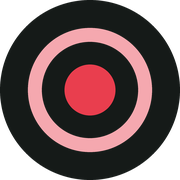
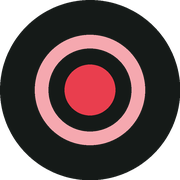
Знак сайта: вектор для выдачи и скрипт, которым он рисуется
Яндекс предпочитает SVG и рисует его чётко в любом размере, Google
принимает как любой валидный формат — а у нас был только .ico с
максимумом 64×64. Теперь вектор идёт первым, .ico остаётся запасным
для старых браузеров.

Сами иконки были нарисованы разово и руками: перерисовать их значило
подбирать радиусы заново. Геометрия переехала в scripts/make_icons.py,
и все размеры получаются с одного знака. Тест сторожит, что ссылки в
<head> ведут на существующие файлы, в .ico лежат размеры, которые
спрашивают поисковики, а вектор масштабируется и не тянет ничего извне.

diff --git a/index.html b/index.html
@@ -33,8 +33,14 @@
     <meta name="theme-color" content="#0e1211" />
     <!-- Иконки файлами, а не data:URI. Яндекс — и Вебмастер, и выдача —
          забирает именно /favicon.ico: пока его не было, сайт в поиске
-         оставался без значка. Тем же путём иконку берут закладки iOS. -->
-    <link rel="icon" href="/favicon.ico" sizes="any" />
+         оставался без значка. Тем же путём иконку берут закладки iOS.
+         Вектор идёт первым: Яндекс предпочитает SVG и рисует его чётко
+         в любом размере, Google принимает как любой валидный формат.
+         Ссылки не переставлять и адреса не менять — оба поисковика
+         обходят фавиконку неделями и ждут её по постоянному адресу.
+         Перерисовать всё разом: scripts/make_icons.py -->
+    <link rel="icon" href="/favicon.ico" sizes="32x32" />
+    <link rel="icon" href="/favicon.svg" type="image/svg+xml" />
     <link rel="apple-touch-icon" href="/apple-touch-icon.png" />
 
     <!-- Разметка для поисковиков: без неё карта для робота — пустой div. -->

diff --git a/scripts/make_icons.py b/scripts/make_icons.py
@@ -1,0 +1,83 @@
+"""Знак карты — отметка на радаре — во всех размерах, какие спрашивают.
+
+    ingest/.venv/bin/python scripts/make_icons.py
+
+Раньше иконки были нарисованы разово и руками: перерисовать их значило
+подбирать радиусы заново. Здесь одна геометрия на всех — векторная
+favicon.svg и растровые копии с неё же.
+
+Что кому нужно:
+  · Яндекс берёт SVG в первую очередь, а из растровых предпочитает 32×32;
+  · Google просит квадрат больше 48×48 и умеет тот же SVG;
+  · iOS кладёт на домашний экран apple-touch-icon 180×180;
+  · старые браузеры знают только favicon.ico — оставляем четыре размера.
+"""
+
+from __future__ import annotations
+
+from pathlib import Path
+
+from PIL import Image, ImageDraw
+
+ROOT = Path(__file__).resolve().parent.parent
+PUBLIC = ROOT / "public"
+
+# Геометрия в долях от стороны. Тёмный круг во весь квадрат, бледное
+# кольцо развёртки, красная отметка в центре — тот же знак, что в шапке.
+SHELL = (21, 26, 24, 255)
+MARK = (233, 62, 78, 255)
+RING = (232, 62, 77, 115)      # тот же красный сквозь тёмный фон
+MARK_RADIUS = 0.1406           # 72/512
+RING_INNER = 0.2676            # 137/512
+RING_OUTER = 0.3438            # 176/512
+
+SVG = """<svg xmlns="http://www.w3.org/2000/svg" viewBox="0 0 512 512">
+  <title>Тихое небо</title>
+  <circle cx="256" cy="256" r="256" fill="#151a18"/>
+  <circle cx="256" cy="256" r="156" fill="none" stroke="#e83e4d"
+          stroke-opacity="0.45" stroke-width="39"/>
+  <circle cx="256" cy="256" r="72" fill="#e93e4e"/>
+</svg>
+"""
+
+
+def render(size: int) -> Image.Image:
+    """Рисуем вчетверо крупнее и уменьшаем: у кругов иначе рваный край."""
+    scale = 4
+    canvas = Image.new("RGBA", (size * scale, size * scale), (0, 0, 0, 0))
+    draw = ImageDraw.Draw(canvas)
+    side = size * scale
+    center = side / 2
+
+    def circle(radius: float, **kwargs) -> None:
+        draw.ellipse([center - radius, center - radius,
+                      center + radius, center + radius], **kwargs)
+
+    circle(center, fill=SHELL)
+    ring_width = (RING_OUTER - RING_INNER) * side
+    circle((RING_INNER + RING_OUTER) / 2 * side, outline=RING,
+           width=max(1, round(ring_width)))
+    circle(MARK_RADIUS * side, fill=MARK)
+    return canvas.resize((size, size), Image.LANCZOS)
+
+
+def main() -> int:
+    (PUBLIC / "favicon.svg").write_text(SVG, encoding="utf-8")
+    print("favicon.svg")
+
+    # Внутри .ico те размеры, что спрашивают браузеры и поисковики.
+    icon_sizes = [16, 32, 48, 64]
+    render(64).save(PUBLIC / "favicon.ico", format="ICO",
+                    sizes=[(size, size) for size in icon_sizes])
+    print(f"favicon.ico — {', '.join(f'{s}×{s}' for s in icon_sizes)}")
+
+    for name, size in (("apple-touch-icon.png", 180),
+                       ("icon-192.png", 192),
+                       ("icon-512.png", 512)):
+        render(size).save(PUBLIC / name)
+        print(f"{name} — {size}×{size}")
+    return 0
+
+
+if __name__ == "__main__":
+    raise SystemExit(main())

diff --git a/tests/test_site_icons.py b/tests/test_site_icons.py
@@ -1,0 +1,59 @@
+"""Иконки сайта: то, по чему сайт узнают в выдаче и в закладках.
+
+Значок в поиске стоит дёшево и ломается тихо: битая ссылка в <head> или
+пропавший файл никак не видны на самой карте, а Яндекс с Google обходят
+фавиконку неделями — ошибку замечаешь через месяц по пустому квадрату
+в выдаче.
+"""
+
+from __future__ import annotations
+
+import re
+import struct
+
+import pytest
+from PIL import Image
+
+from pipeline.db import ROOT
+
+HEAD = (ROOT / "index.html").read_text(encoding="utf-8")
+ICON_LINKS = re.findall(r'<link rel="(icon|apple-touch-icon)"[^>]*href="([^"]+)"[^>]*>', HEAD)
+
+
+def public(href: str):
+    return ROOT / "public" / href.lstrip("/")
+
+
+def test_head_lists_icons():
+    """Ссылки на месте — вектор, .ico и иконка для домашнего экрана."""
+    hrefs = {href for _, href in ICON_LINKS}
+    assert {"/favicon.ico", "/favicon.svg", "/apple-touch-icon.png"} <= hrefs
+
+
+@pytest.mark.parametrize("href", sorted({href for _, href in ICON_LINKS}))
+def test_icon_file_exists(href):
+    assert public(href).is_file(), f"{href} нет в public/"
+
+
+def test_ico_carries_the_sizes_search_engines_ask_for():
+    """32×32 — тот размер, который Яндекс берёт в выдачу; 48 просит Google."""
+    data = public("/favicon.ico").read_bytes()
+    count = struct.unpack("<H", data[4:6])[0]
+    sizes = {struct.unpack("<BB", data[6 + index * 16:8 + index * 16])[0] or 256
+             for index in range(count)}
+    assert {16, 32, 48} <= sizes, f"в .ico только {sorted(sizes)}"
+
+
+def test_svg_is_self_contained_and_scalable():
+    """Вектор без viewBox не масштабируется, а со ссылкой наружу — не грузится."""
+    svg = public("/favicon.svg").read_text(encoding="utf-8")
+    assert "viewBox" in svg
+    assert "http://www.w3.org/2000/svg" in svg
+    assert not re.search(r'(?:href|src)\s*=\s*"(?!#)(?:https?:)?//', svg)
+
+
+@pytest.mark.parametrize("name", ["apple-touch-icon.png", "icon-192.png", "icon-512.png"])
+def test_raster_icons_are_square(name):
+    """Не квадрат поисковики просто не берут."""
+    width, height = Image.open(ROOT / "public" / name).size
+    assert width == height, f"{name}: {width}×{height}"
